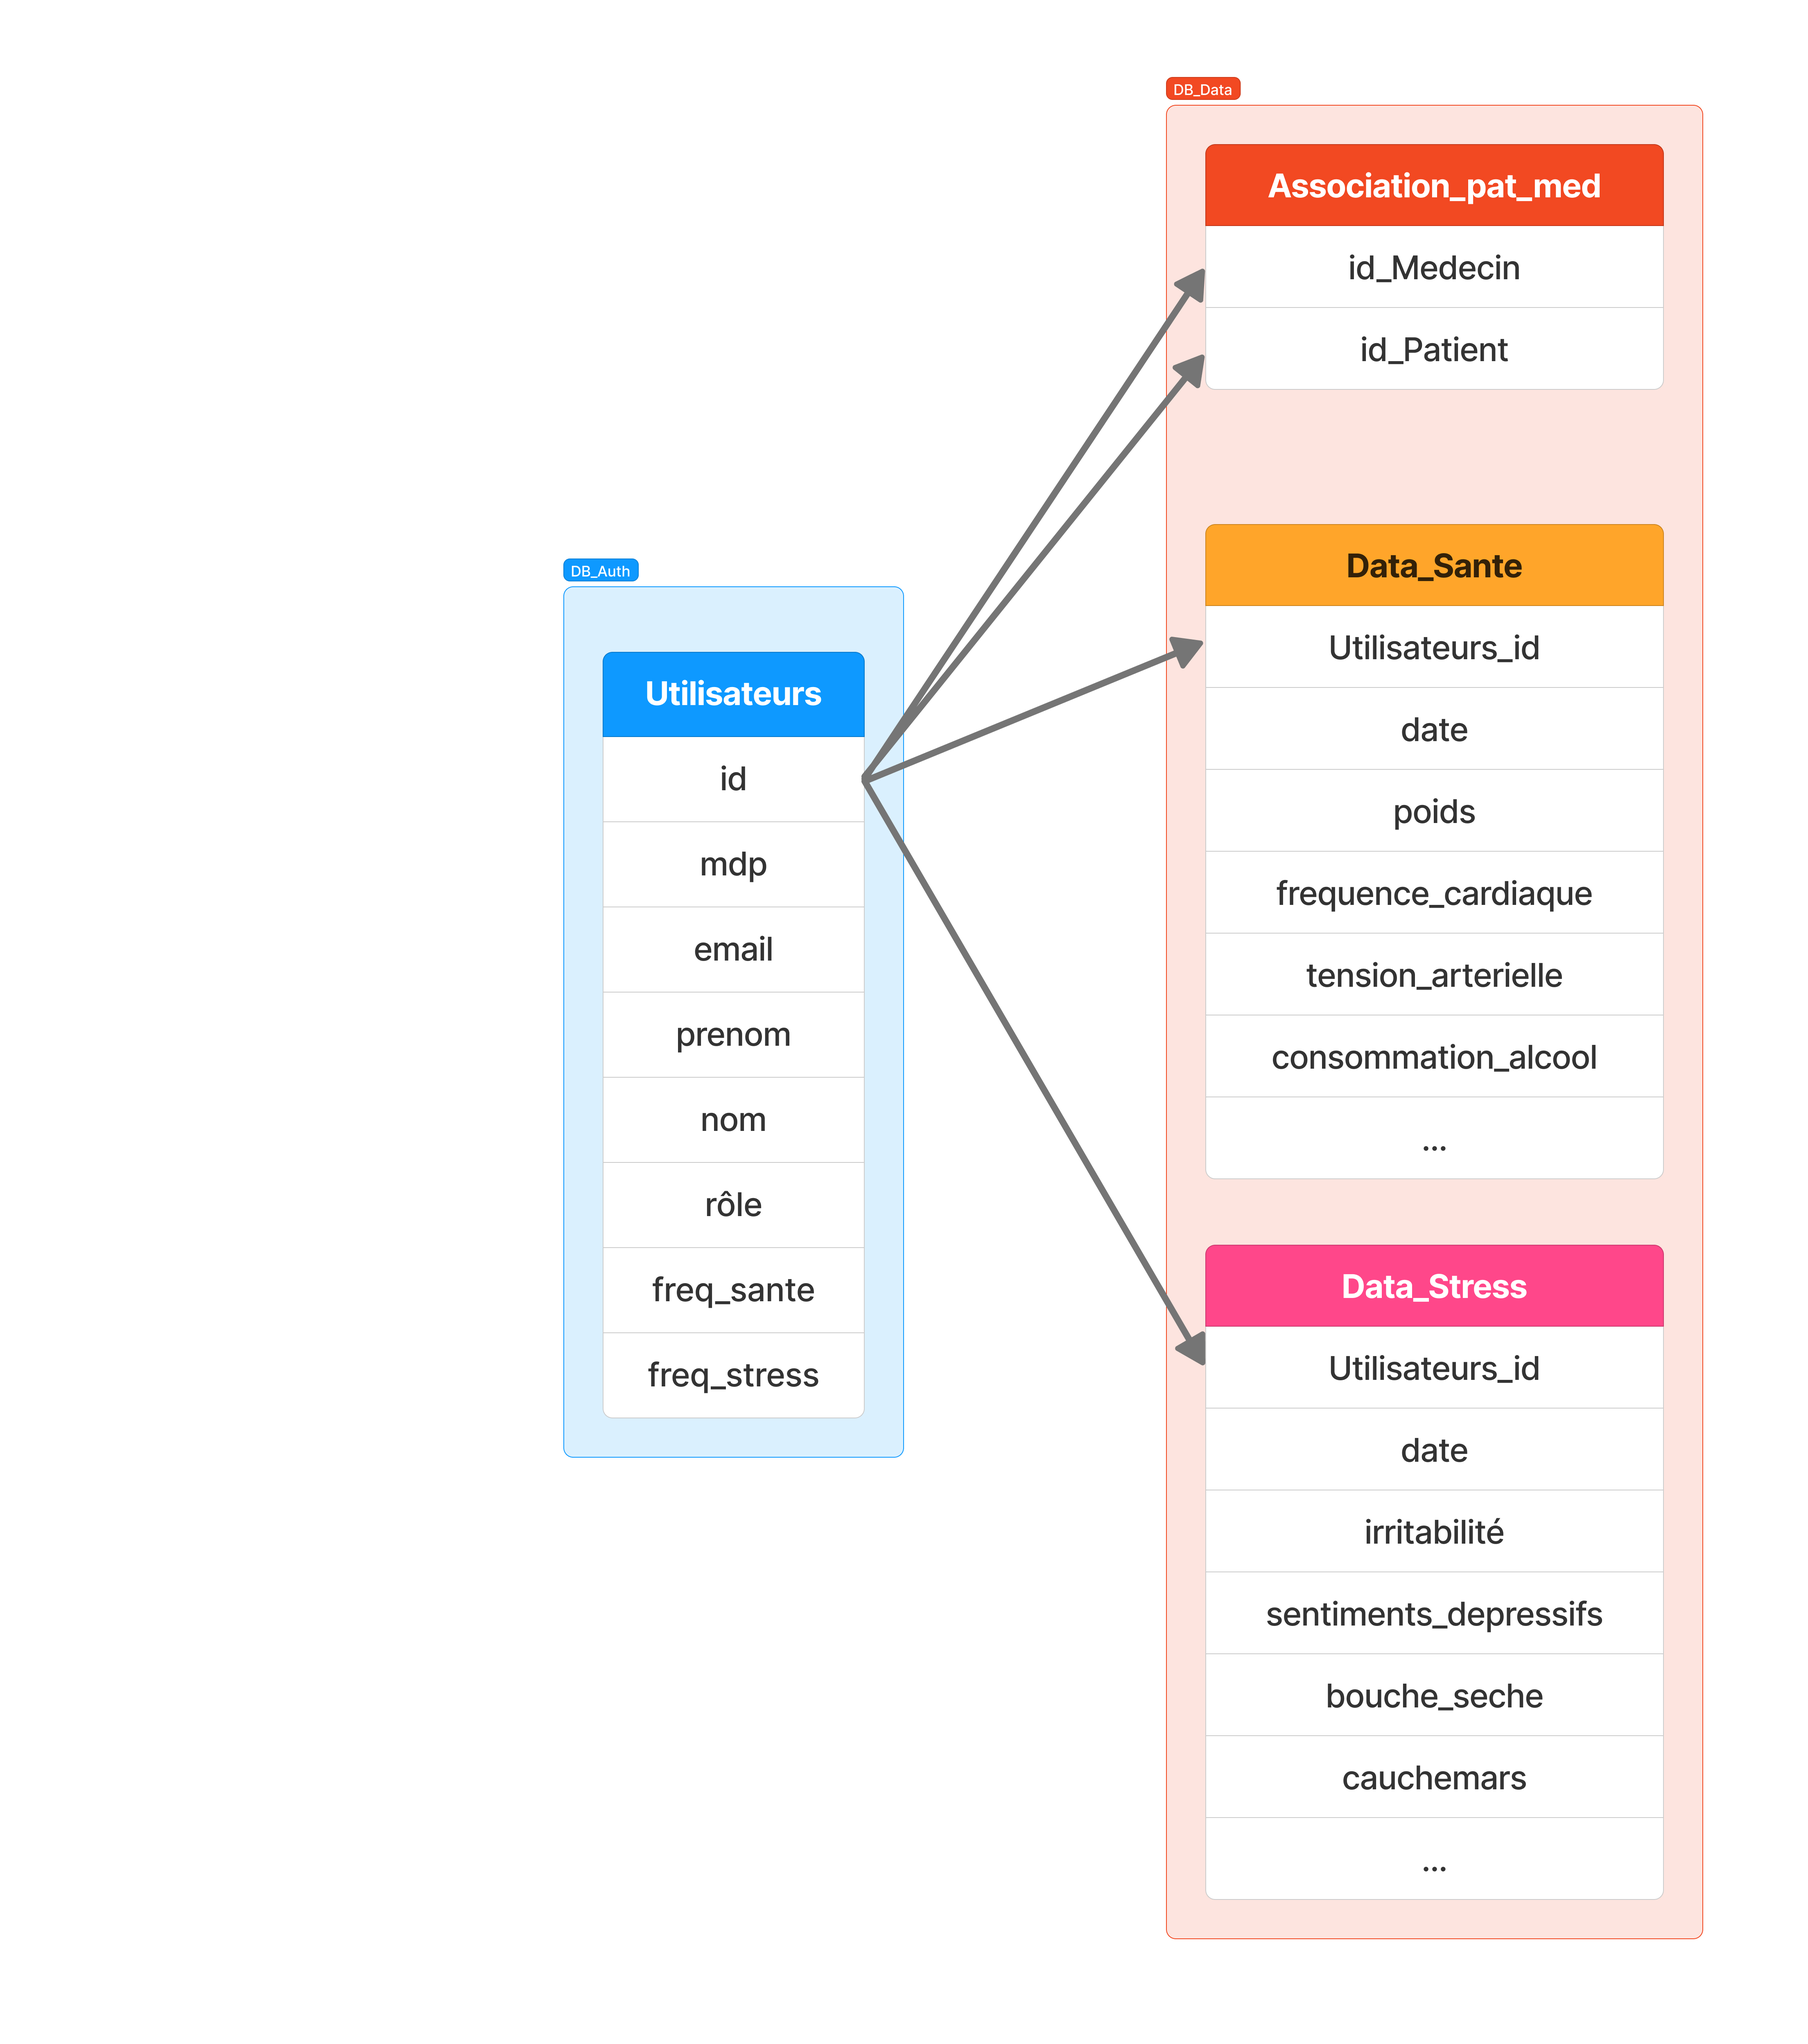
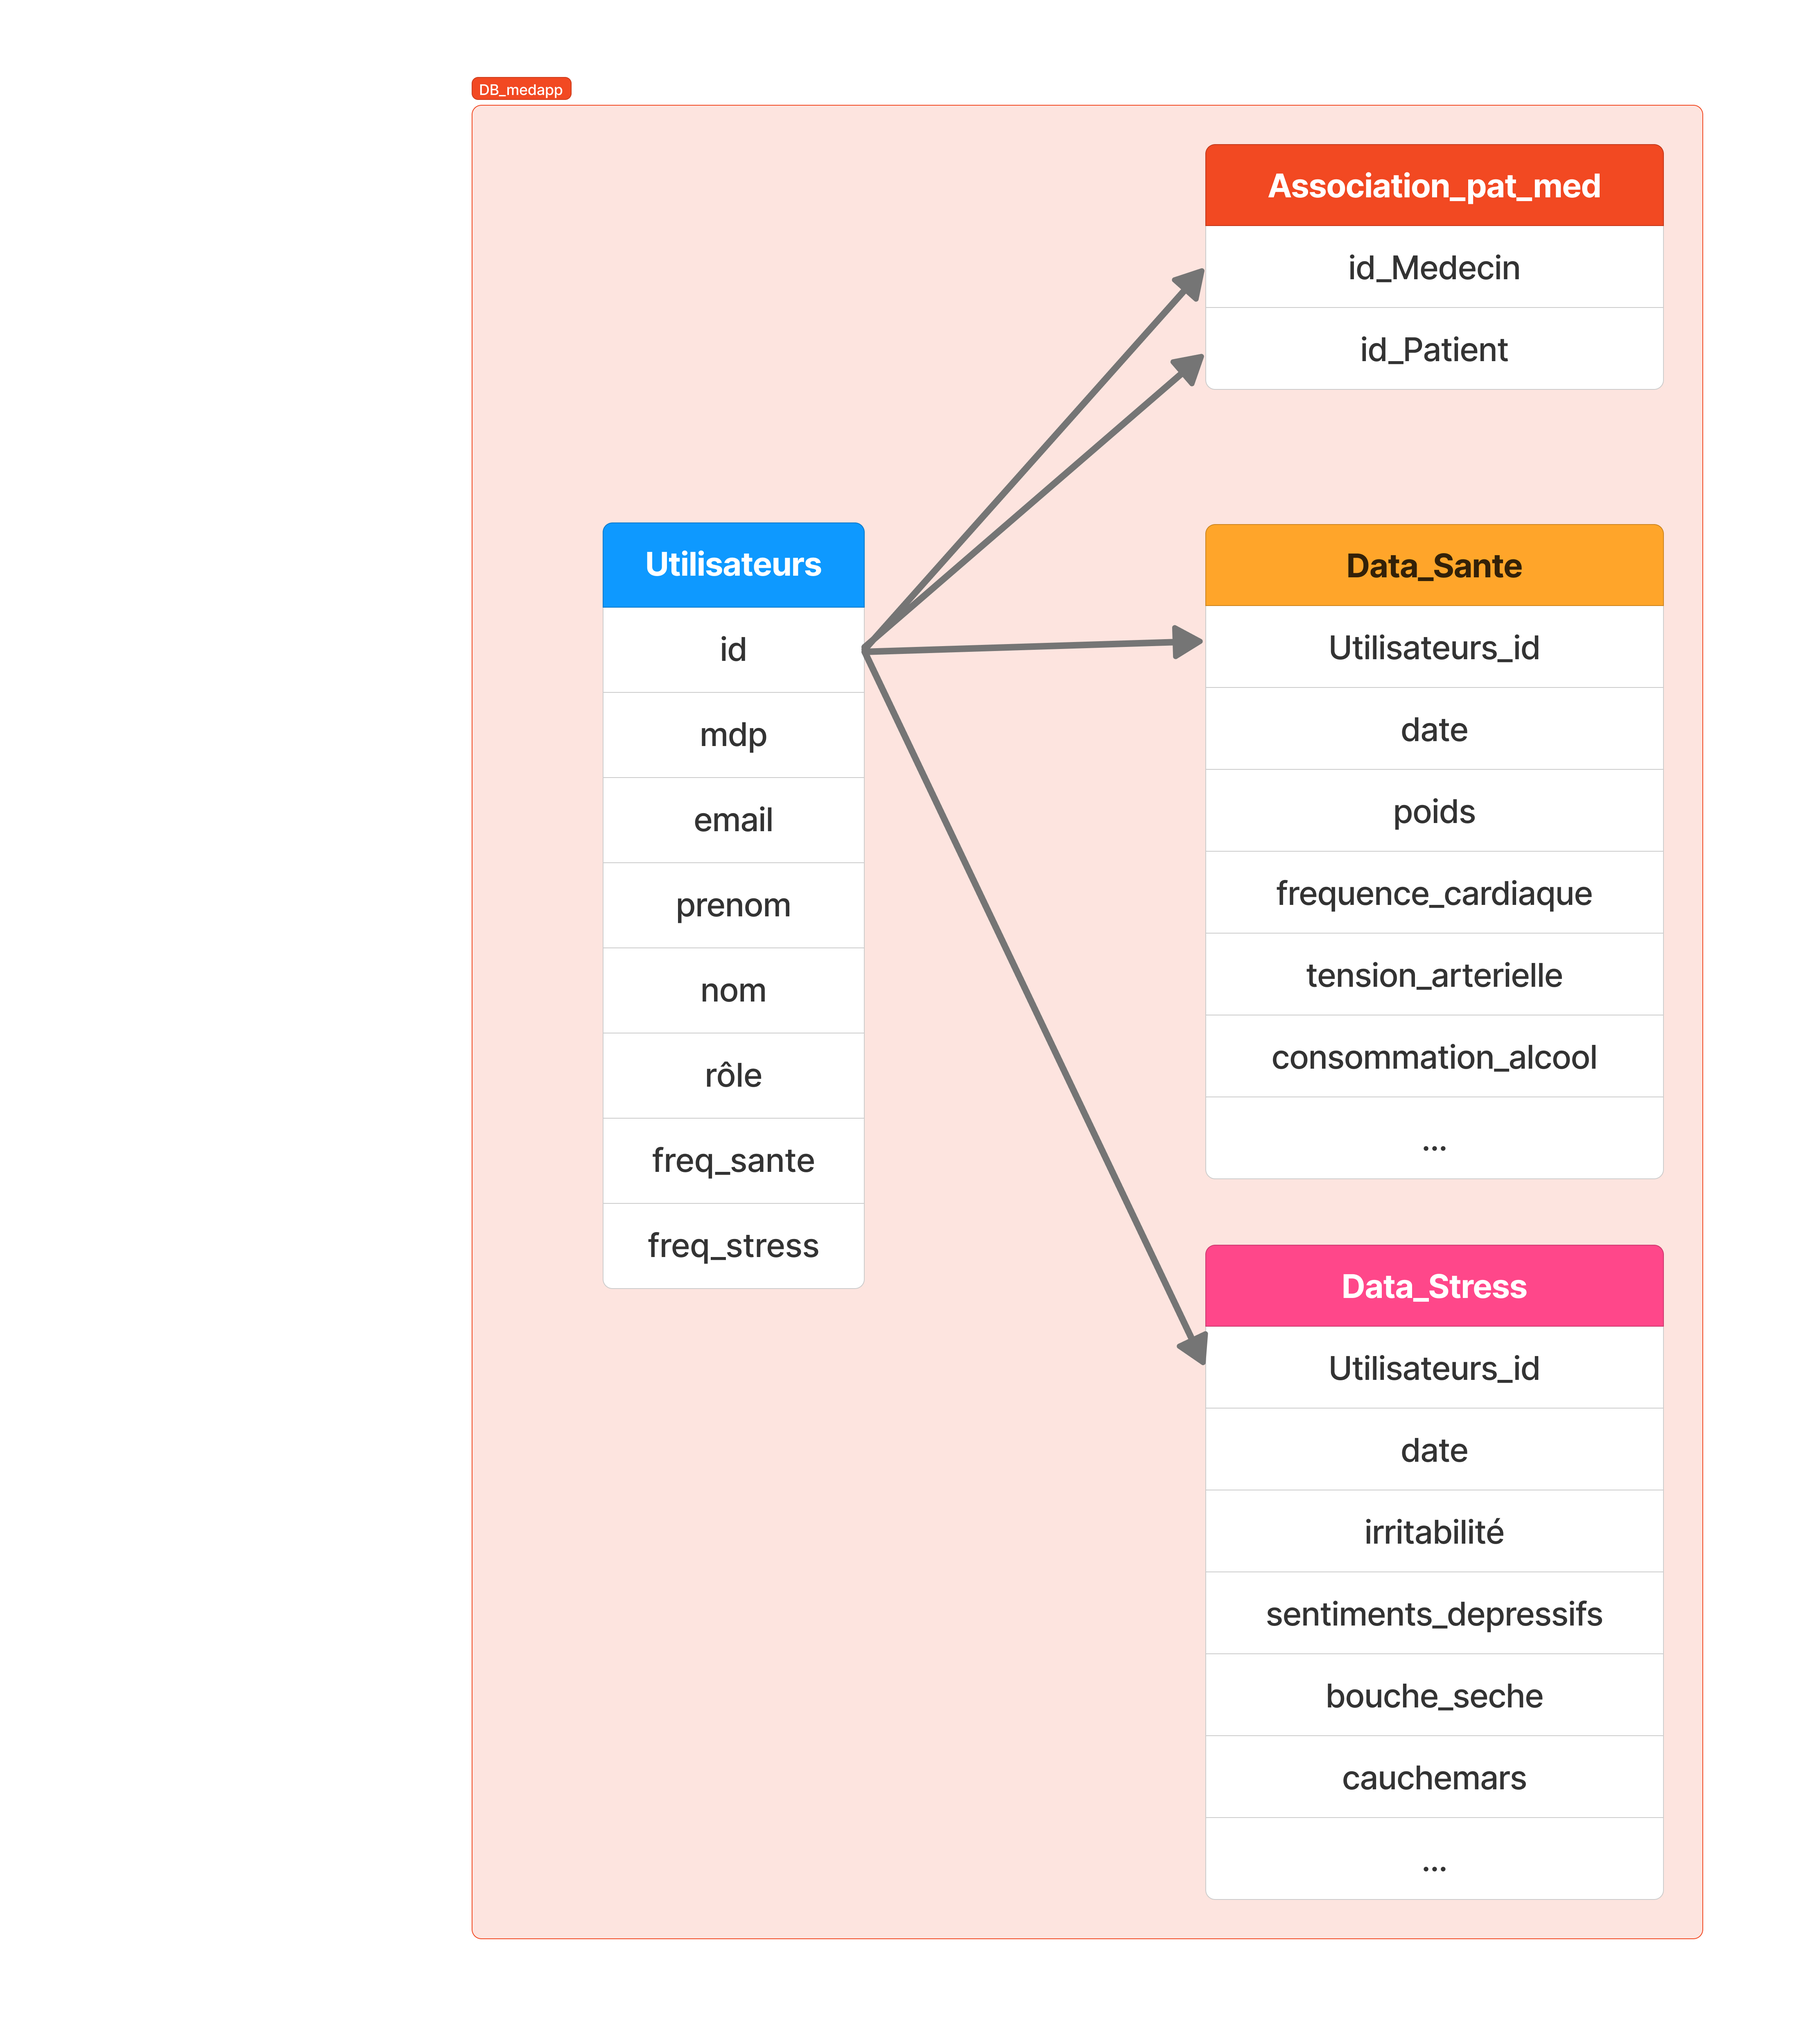
docs: schema bdd

diff --git a/README.md b/README.md
@@ -38,9 +38,8 @@ Ce projet met en œuvre les compétences suivantes :
 
 ## Données
 
-A terme (production), les données d'authentification et les données médicales devront être stockées dans deux bases de données distinctes comme indiqué sur ce schéma:
 ![Capture d'écran 1](https://github.com/meowd18/medapp/blob/resolve/img/double_db.jpg)
-*Schéma de la base de données*  
+*Schéma simplifié de la base de données*  
 *authentification_utilisateur.username = colstress.user_id = colsante.user_id*  
 *authentification_medecinpatient.idMedecin_id et authentification_medecinpatient.idPatient_id = authentification_utilisateur.id*
 
